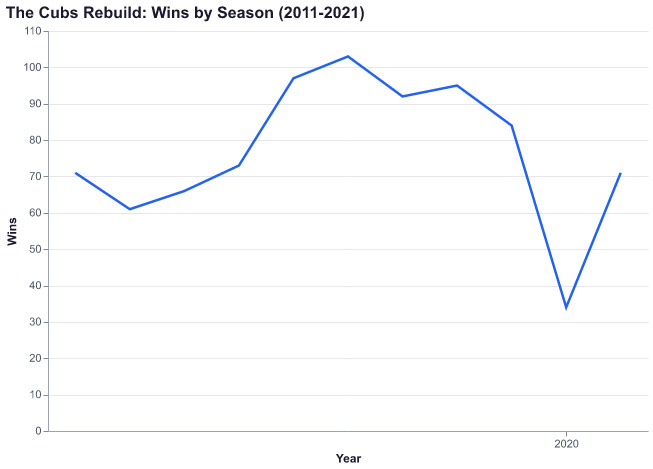
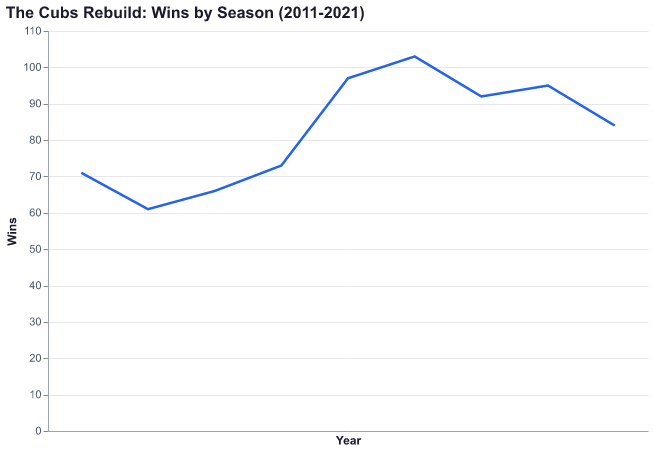
Remove COVID/2021 years from Cubs rebuild chart
Ends chart at 2019 - the COVID shortened season (2020) and
fire sale year (2021) distract from the rebuild arc story.

🤖 Generated with [Claude Code](https://claude.com/claude-code)

diff --git a/charts/cubs_2016/data.py b/charts/cubs_2016/data.py
@@ -13,25 +13,24 @@ import pandas as pd
 
 def load_cubs_rebuild_arc() -> pd.DataFrame:
     """
-    Cubs win totals and playoff results 2011-2021.
-    Shows the complete rebuild arc under Theo Epstein.
+    Cubs win totals and playoff results 2011-2019.
+    Shows the rebuild arc under Theo Epstein through the window closing.
 
     Source: Baseball-Reference.com
     """
     data = {
-        "year": [2011, 2012, 2013, 2014, 2015, 2016, 2017, 2018, 2019, 2020, 2021],
-        "wins": [71, 61, 66, 73, 97, 103, 92, 95, 84, 34, 71],
-        "losses": [91, 101, 96, 89, 65, 58, 69, 68, 78, 26, 91],
-        "win_pct": [.438, .377, .407, .451, .599, .640, .571, .583, .519, .567, .438],
+        "year": [2011, 2012, 2013, 2014, 2015, 2016, 2017, 2018, 2019],
+        "wins": [71, 61, 66, 73, 97, 103, 92, 95, 84],
+        "losses": [91, 101, 96, 89, 65, 58, 69, 68, 78],
+        "win_pct": [.438, .377, .407, .451, .599, .640, .571, .583, .519],
         "playoff_result": [
             "Missed", "Missed", "Missed", "Missed", "NLCS",
-            "World Series Champion", "NLCS", "Wild Card Loss",
-            "Missed", "Wild Card Loss", "Missed"
+            "World Series Champion", "NLCS", "Wild Card Loss", "Missed"
         ],
-        "division_rank": [5, 5, 5, 5, 3, 1, 1, 1, 3, 1, 4],
-        "run_differential": [-61, -152, -118, -36, 143, 252, 111, 108, -2, 39, -95],
+        "division_rank": [5, 5, 5, 5, 3, 1, 1, 1, 3],
+        "run_differential": [-61, -152, -118, -36, 143, 252, 111, 108, -2],
         "era": ["Pre-Epstein", "Rebuild", "Rebuild", "Rebuild", "Contention",
-                "Championship", "Window", "Window", "Decline", "COVID", "Rebuild 2.0"],
+                "Championship", "Window", "Window", "Decline"],
         "notes": [
             "Last year before Epstein",
             "First Epstein year, tank begins",
@@ -41,9 +40,7 @@ def load_cubs_rebuild_arc() -> pd.DataFrame:
             "108-year drought ends",
             "Lost NLCS to Dodgers 4-1",
             "Lost Wild Card to Rockies",
-            "Core begins to age out",
-            "60-game COVID season",
-            "Fire sale at deadline"
+            "Core begins to age out"
         ]
     }
     return pd.DataFrame(data)
